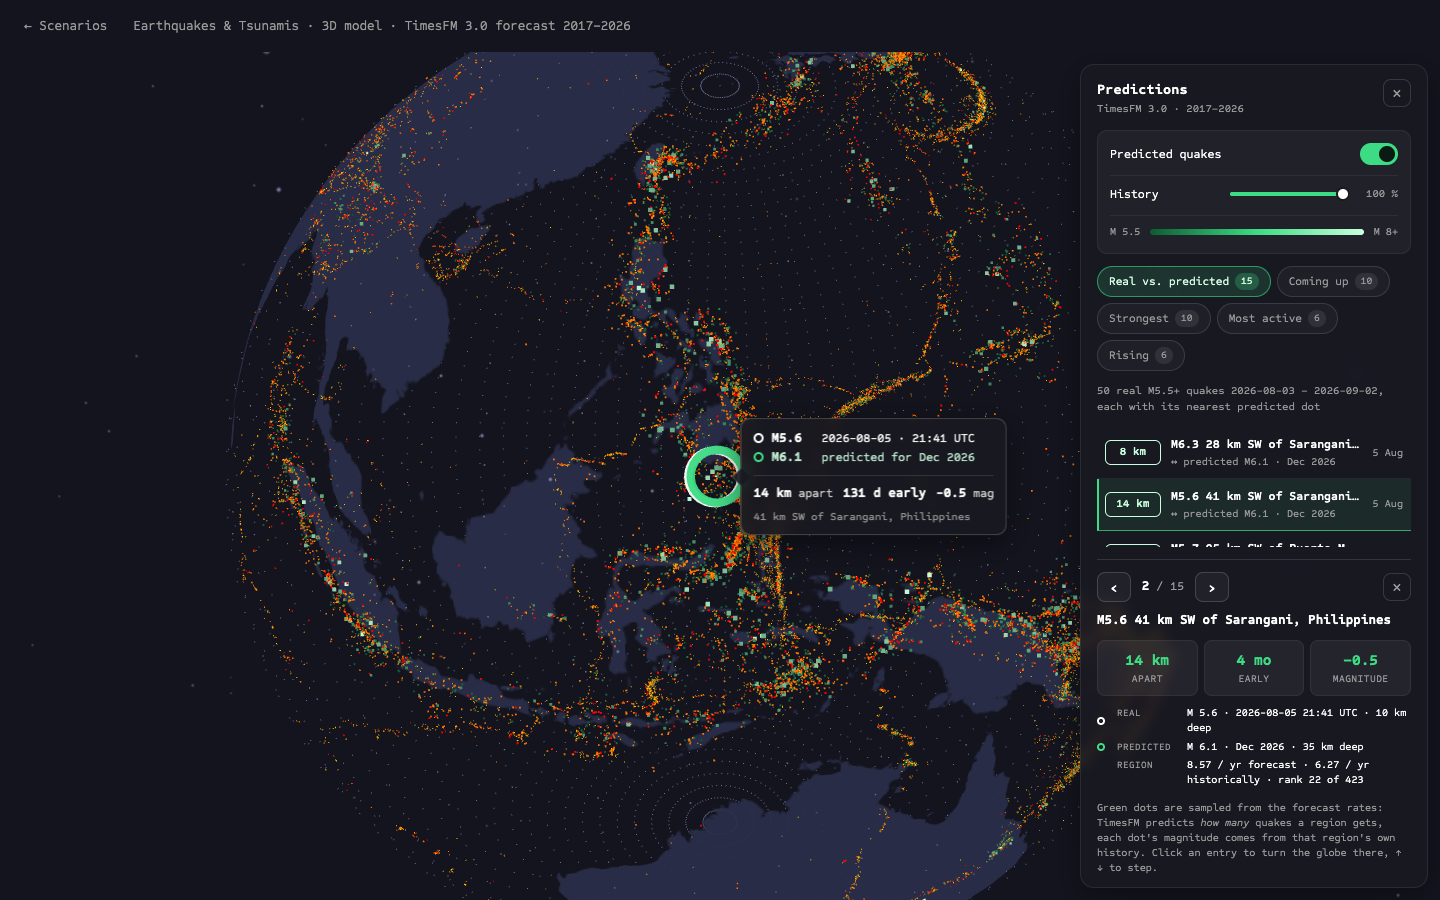
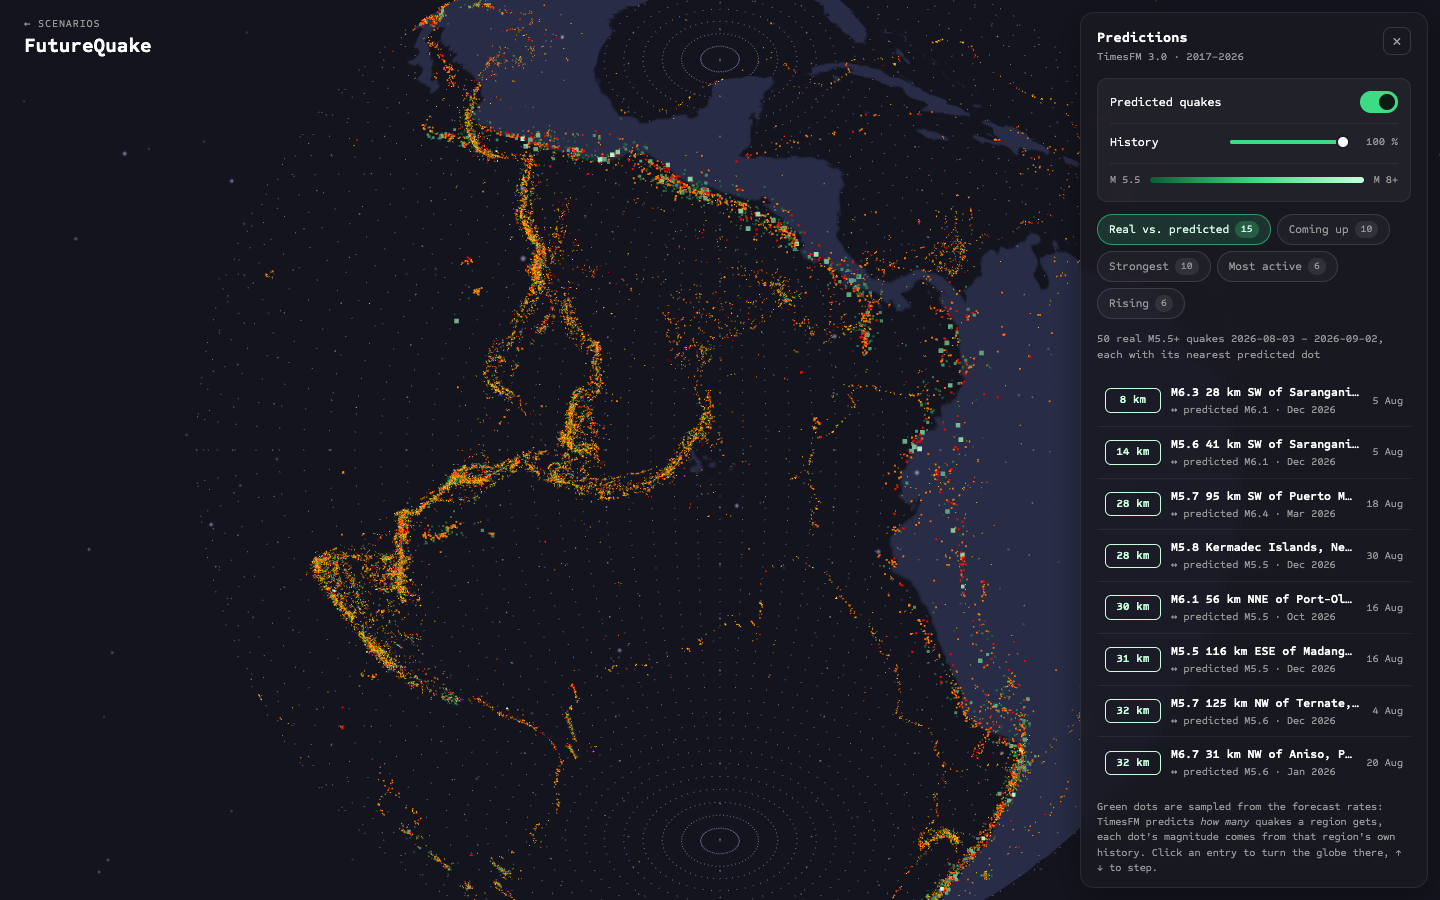
weather: simpler top bar (bigger name, no status line); globe: FutureQuake brand block like the other pages

diff --git a/src/wetter/App.tsx b/src/wetter/App.tsx
@@ -119,15 +119,9 @@ export default function App() {
         <div className="brand">
           <a className="back" href="./">← Scenarios</a>
           <span className="name">FutureWeather</span>
-          <span className="tag">{DAYS_SHOWN} days from the history alone · TimesFM 3.0 against a weather model</span>
         </div>
         <Search onPick={pick} />
         <div className="topRight">
-          {data && (
-            <span className="num">
-              Updated {data.generated.replace('T', ' ')} · context {data.contextHours} h · {(data.runtimeMs / 1000).toFixed(1)} s
-            </span>
-          )}
           {loading && <span className="loading">loading …</span>}
           <button className="pillBtn" onClick={cycleTheme} aria-label={`Colour scheme: ${THEME_LABEL[theme]}, switch`} title="Switch colour scheme">
             {theme === 'dark' ? '☾' : theme === 'light' ? '☀' : '◐'} {THEME_LABEL[theme]}

diff --git a/src/erdbeben/styles/global.css b/src/erdbeben/styles/global.css
@@ -81,29 +81,36 @@ select {
 
 /* slim top bar of the hub version: back link + title, same height the navbar had */
 .topbar {
-  height: var(--nav-height);
-  display: flex;
-  align-items: center;
-  gap: 26px;
-  padding: 0 24px;
-  font-size: 13px;
-  flex-shrink: 0;
+  position: absolute;
+  top: 18px;
+  left: 24px;
   z-index: 200;
+}
+
+.topbar .brand {
+  display: flex;
+  flex-direction: column;
+  line-height: 1.2;
 }
 
 .topbar .back {
   color: var(--muted);
   text-decoration: none;
   white-space: nowrap;
-  flex-shrink: 0;
+  font-size: 10.5px;
+  letter-spacing: 0.08em;
+  text-transform: uppercase;
+  margin-bottom: 2px;
 }
 
 .topbar .back:hover {
   color: var(--text);
 }
 
-.topbar .title {
-  color: var(--muted);
+.topbar .name {
+  font-size: 20px;
+  font-weight: 700;
+  color: var(--text);
 }
 
 .navbar a:hover,

diff --git a/src/erdbeben/App.tsx b/src/erdbeben/App.tsx
@@ -10,10 +10,12 @@ export default function App() {
   return (
     <div className="app">
       <header className="topbar">
-        <a href="./" className="back">
-          ← Scenarios
-        </a>
-        <span className="title">Earthquakes &amp; Tsunamis · 3D model · TimesFM 3.0 forecast 2017–2026</span>
+        <div className="brand">
+          <a href="./" className="back">
+            ← Scenarios
+          </a>
+          <span className="name">FutureQuake</span>
+        </div>
       </header>
       <Suspense fallback={<Loader />}>
         <Globe />

diff --git a/src/wetter/styles/global.css b/src/wetter/styles/global.css
@@ -172,8 +172,8 @@ button {
 
 .brand .name {
   font-weight: 600;
-  font-size: 14px;
-  letter-spacing: 0.02em;
+  font-size: 20px;
+  letter-spacing: -0.01em;
 }
 
 .brand .tag {
